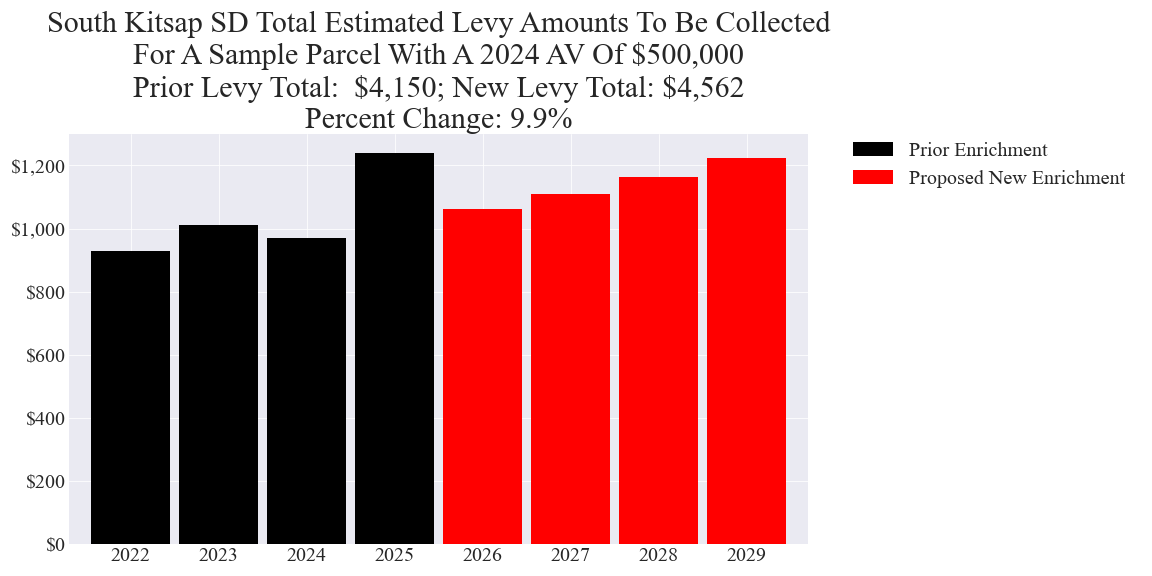
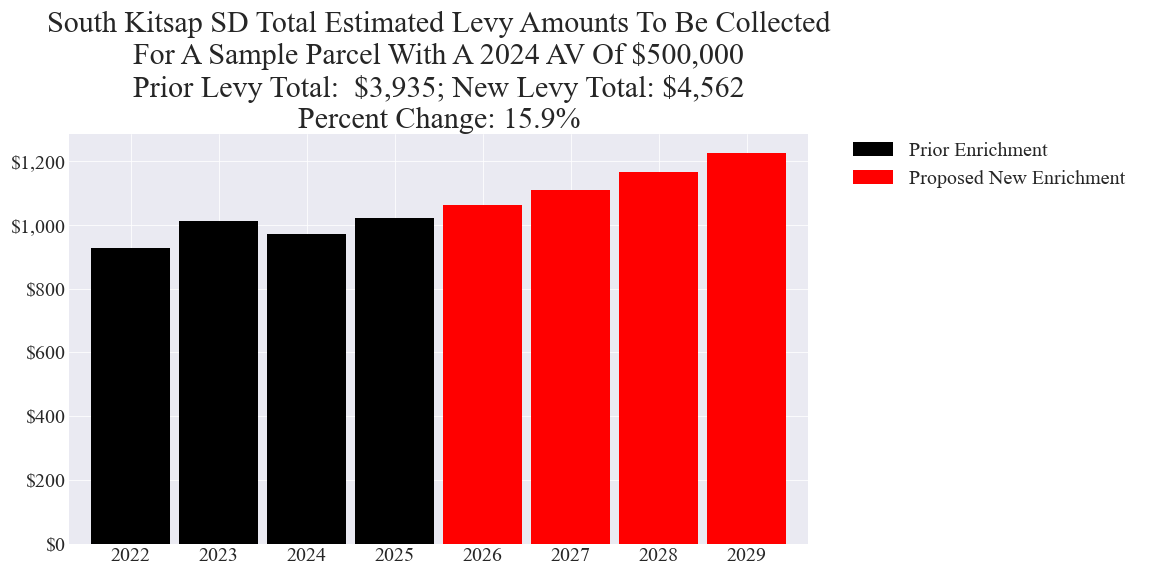
Updated elec 20250211
Mod:
South Kitsap SD data

diff --git a/_includes/cost_estimates/20250211/SouthKitsap_Enrichment_20250211_Enhanced.html b/_includes/cost_estimates/20250211/SouthKitsap_Enrichment_20250211_Enhanced.html
@@ -19,7 +19,7 @@
 	totalLevyCostParcel = sampleParcelPOF * totalLevyCost;
 	levyYears = 4;
 	averageTotalLevyCostParcel = totalLevyCostParcel / levyYears;
-	totalLevyPriorCost = 120953469;
+	totalLevyPriorCost = 114679351;
 	totalLevyPriorCostParcel = sampleParcelPOF * totalLevyPriorCost;
 	averageTotalLevyPriorCostParcel = totalLevyPriorCostParcel / levyYears;
 	// POF Annual Change Percent
@@ -40,7 +40,7 @@
 			['2022', 27076599, 0],
 			['2023', 29510900, 0],
 			['2024', 28269330, 0],
-			['2025', 36096640, 0],
+			['2025', 29822522, 0],
 			['2026', 0, 30990823],
 			['2027', 0, 32313252],
 			['2028', 0, 33950830],
